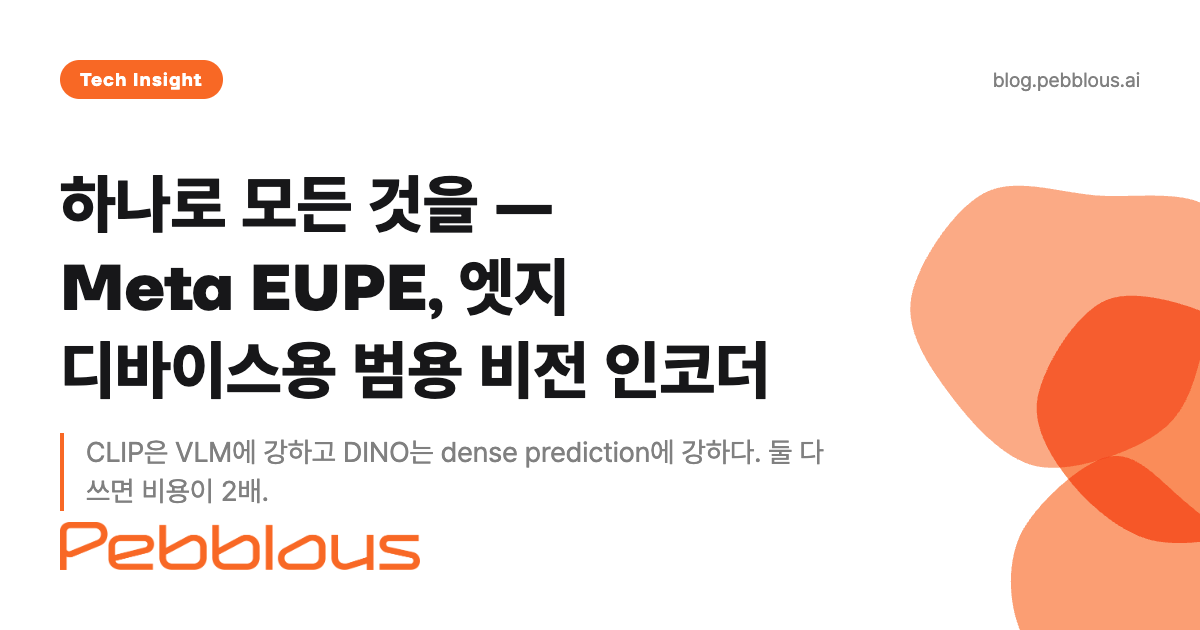
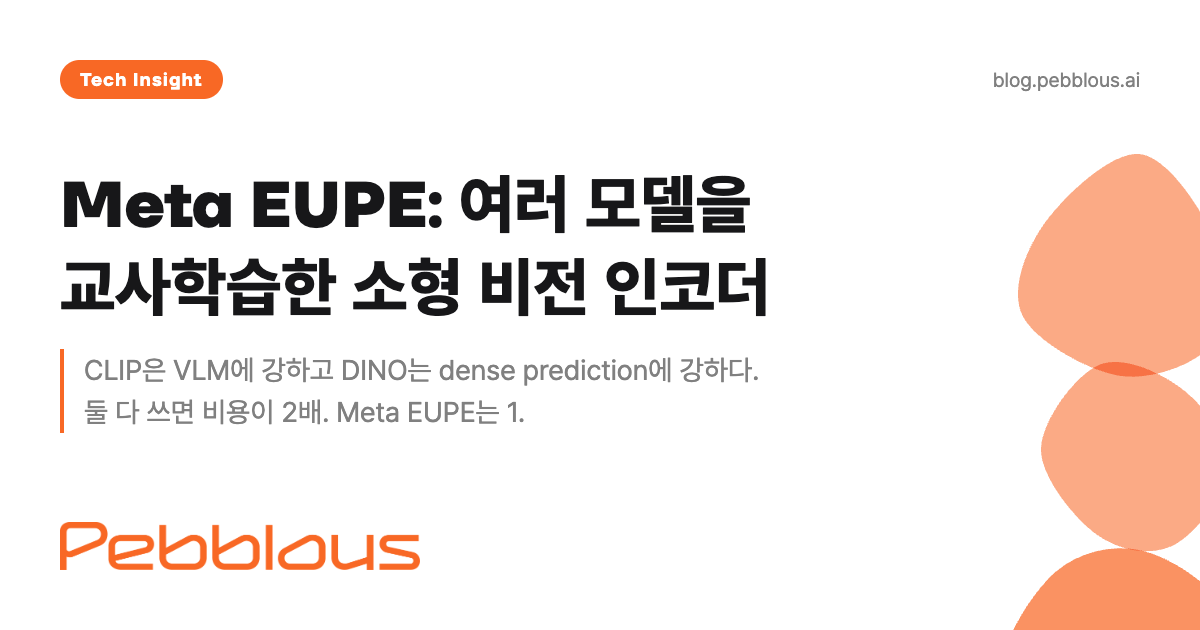
chore(titles): 제목·메타 일괄 교정 1건/3필드 (제목 검토 콘솔)\n\n- eupe-universal-encoder-ko:\n    제목: 하나로 모든 것을 — Meta EUPE, 엣지 디바이스용 범용 비전 인코더 → Meta EUPE: 여러 교사에게 한 번에 배우는 Meta의 소형 비전 인코더\n    SEO 제목: 하나로 모든 것을 — Meta EUPE 범용 비전 인코더 | 페블러스 → Meta EUPE 범용 비전 인코더 | 페블러스\n    OG 이미지 제목: (없음) → Meta EUPE: 여러 모델을 교사학습

Changed region(s): [[0.0308, 0.2714, 0.6475, 0.5127], [0.74, 0.2413, 1.0, 1.0], [0.0308, 0.5429, 0.6783, 0.8143]]

diff --git a/report/eupe-universal-encoder/ko/index.html b/report/eupe-universal-encoder/ko/index.html
@@ -10,7 +10,8 @@
     <meta name="robots" content="index, follow">
     <meta name="revisit-after" content="7 days">
 
-    <title>하나로 모든 것을 — Meta EUPE, 엣지 디바이스용 범용 비전 인코더 | 페블러스</title>
+    <title>Meta EUPE 범용 비전 인코더 | 페블러스</title>
+    <meta name="og-image-title" content="Meta EUPE: 여러 모델을 교사학습한 소형 비전 인코더">
     <meta name="description" content="Meta AI의 EUPE가 비전 AI의 전문화 딜레마를 해결합니다. 1.9B 프록시 모델을 경유한 3단계 증류로 86M 파라미터가 DINOv3·SigLIP2·PEcore를 동시에 능가하는 원리와 VLA·DataClinic 임플리케이션을 분석합니다.">
     <meta name="keywords" content="EUPE, Meta AI, 비전 인코더, 지식 증류, 범용 인코더, VLA, VLM, Physical AI, DINOv3, SigLIP, 엣지 AI, 데이터 품질, DataClinic, 임베딩, ViT, ConvNext, 로봇">
 
@@ -20,7 +21,7 @@
     <link rel="alternate" hreflang="x-default" href="https://blog.pebblous.ai/report/eupe-universal-encoder/ko/">
 
     <!-- Open Graph -->
-    <meta property="og:title" content="하나로 모든 것을 — Meta EUPE, 엣지 디바이스용 범용 비전 인코더">
+    <meta property="og:title" content="Meta EUPE: 여러 교사에게 한 번에 배우는 Meta의 소형 비전 인코더">
     <meta property="og:description" content="CLIP은 VLM에 강하고 DINO는 dense prediction에 강하다. 둘 다 쓰면 비용이 2배. Meta EUPE는 1.9B 프록시로 이 딜레마를 86M에 담았다.">
     <meta property="og:type" content="article">
     <meta property="og:url" content="https://blog.pebblous.ai/report/eupe-universal-encoder/ko/">
@@ -35,7 +36,7 @@
     <meta name="twitter:card" content="summary_large_image">
     <meta name="twitter:site" content="@pebblous_official">
     <meta name="twitter:creator" content="@pebblous_official">
-    <meta name="twitter:title" content="하나로 모든 것을 — Meta EUPE, 엣지 디바이스용 범용 비전 인코더">
+    <meta name="twitter:title" content="Meta EUPE: 여러 교사에게 한 번에 배우는 Meta의 소형 비전 인코더">
     <meta name="twitter:description" content="CLIP은 VLM에 강하고 DINO는 dense에 강하다. 둘 다 쓰면 비용 2배. Meta EUPE는 1.9B 프록시로 이 딜레마를 86M에 담았다.">
     <meta name="twitter:image" content="https://blog.pebblous.ai/report/eupe-universal-encoder/ko/image/index.png">
     <meta name="twitter:image:alt" content="Meta EUPE 범용 비전 인코더 심층 분석">
@@ -817,9 +818,9 @@
     <script src="/scripts/common-utils.js?v=20260407"></script>
     <script>
         PebblousPage.init({
-            mainTitle: "하나로 모든 것을 — Meta EUPE, 엣지 디바이스용 범용 비전 인코더",
+            mainTitle: "Meta EUPE: 여러 교사에게 한 번에 배우는 Meta의 소형 비전 인코더",
             subtitle: "1.9B 프록시 teacher가 CLIP·DINOv3·PElang 지식을 통합해 86M에 담는다",
-            pageTitle: "하나로 모든 것을 — Meta EUPE 범용 비전 인코더 | 페블러스",
+            pageTitle: "Meta EUPE 범용 비전 인코더 | 페블러스",
             category: "tech",
             publishDate: "2026-04-07",
             publisher: "(주)페블러스 데이터 커뮤니케이션팀",
